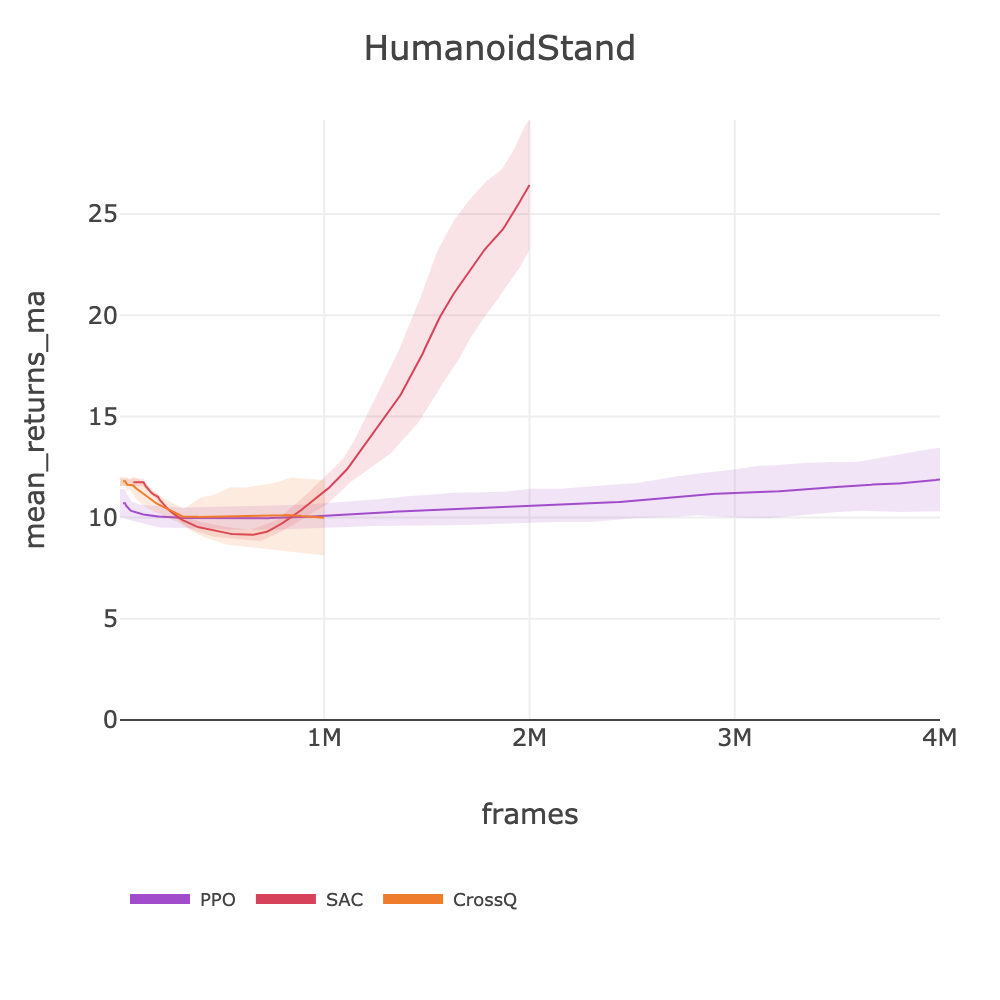
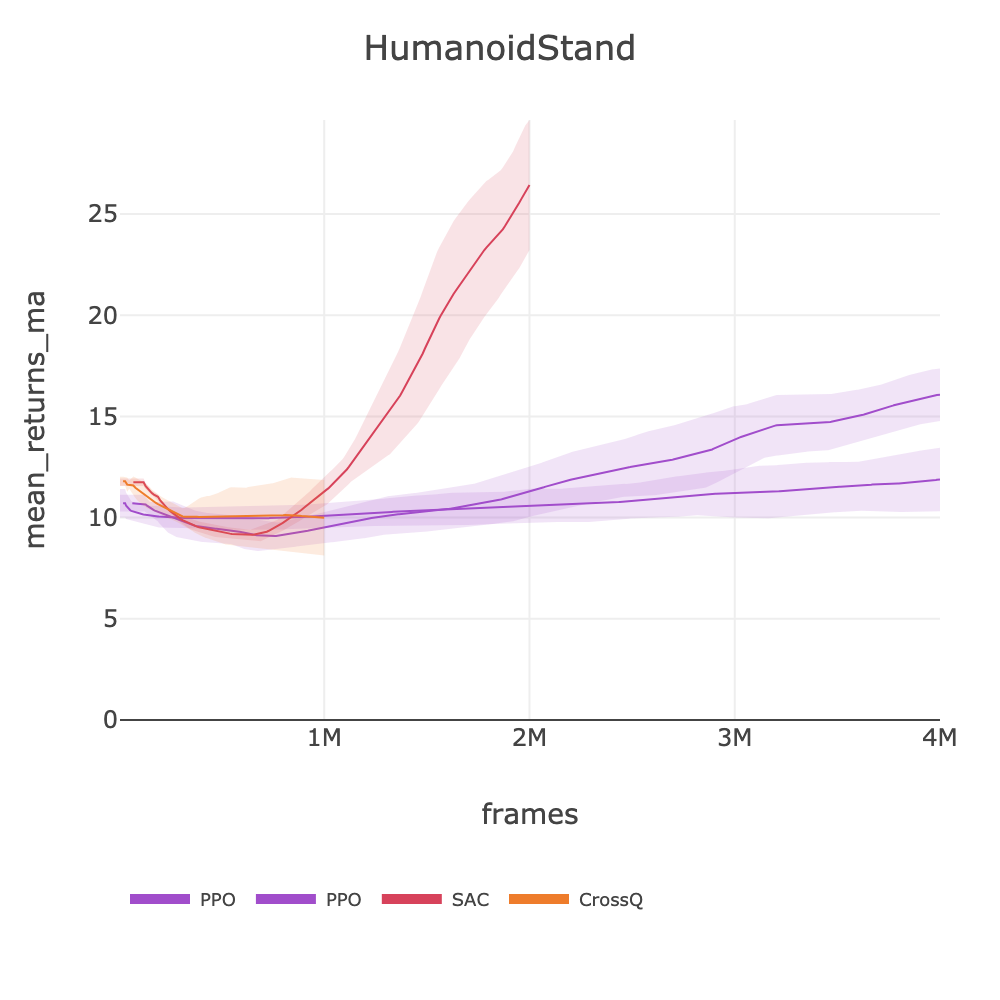
feat: Phase 5 HumanoidStand PPO loco (16.07) + BarkourJoystick PPO (0.00)

diff --git a/docs/BENCHMARKS.md b/docs/BENCHMARKS.md
@@ -831,6 +831,7 @@ source .env && slm-lab run-remote --gpu -s env=playground/CartpoleBalance -s max
 | playground/HumanoidRun | CrossQ | 1.96 | ~11 | ~189 (vhard/16e) | 1M | ~1.5h | [crossq_playground_arc_vhard_humanoidrun_2026_03_07_210456](https://huggingface.co/datasets/SLM-Lab/benchmark-dev/tree/main/data/crossq_playground_arc_vhard_humanoidrun_2026_03_07_210456) |
 | | SAC | 7.90 | | ~335 (fast/64e) | 4M | ~3.4h | [sac_playground_arc_fast_humanoidrun_2026_03_07_001036](https://huggingface.co/datasets/SLM-Lab/benchmark-dev/tree/main/data/sac_playground_arc_fast_humanoidrun_2026_03_07_001036) |
 | playground/HumanoidStand | PPO | 11.89 | ~514 | ~300 (16e) | 4M | ~3.7h | [ppo_playground_arc_humanoidstand_2026_03_07_133528](https://huggingface.co/datasets/SLM-Lab/benchmark-dev/tree/main/data/ppo_playground_arc_humanoidstand_2026_03_07_133528) |
+| | PPO loco | 16.07 | | ~290 (loco/64e) | 4M | ~3.8h | [ppo_playground_arc_loco_humanoidstand_2026_03_07_222019](https://huggingface.co/datasets/SLM-Lab/benchmark-dev/tree/main/data/ppo_playground_arc_loco_humanoidstand_2026_03_07_222019) |
 | | CrossQ | 9.99 | | ~170 (vhard/16e) | 1M | ~1.6h | [crossq_playground_arc_vhard_humanoidstand_2026_03_07_210445](https://huggingface.co/datasets/SLM-Lab/benchmark-dev/tree/main/data/crossq_playground_arc_vhard_humanoidstand_2026_03_07_210445) |
 | | SAC | 26.44 | | ~329 (fast/64e) | 2M | ~1.7h | [sac_playground_arc_fast_humanoidstand_2026_03_07_000958](https://huggingface.co/datasets/SLM-Lab/benchmark-dev/tree/main/data/sac_playground_arc_fast_humanoidstand_2026_03_07_000958) |
 | playground/HumanoidWalk | PPO | 5.50 | ~281 | ~300 (16e) | 4M | ~3.7h | [ppo_playground_arc_humanoidwalk_2026_03_07_133505](https://huggingface.co/datasets/SLM-Lab/benchmark-dev/tree/main/data/ppo_playground_arc_humanoidwalk_2026_03_07_133505) |
@@ -876,7 +877,7 @@ source .env && slm-lab run-remote --gpu -s env=playground/CartpoleBalance -s max
 | playground/ApolloJoystickFlatTerrain | PPO | - | N/A | - | - | - | - |
 | | SAC | - | | - | - | - | - |
 | | CrossQ | - | | - | - | - | - |
-| playground/BarkourJoystick | PPO | - | N/A | - | - | - | - |
+| playground/BarkourJoystick | PPO loco | 0.00 | N/A | ~525 (loco/64e) | 4M | ~2.1h | [ppo_playground_arc_loco_barkourjoystick_2026_03_07_230720](https://huggingface.co/datasets/SLM-Lab/benchmark-dev/tree/main/data/ppo_playground_arc_loco_barkourjoystick_2026_03_07_230720) |
 | | SAC | - | | - | - | - | - |
 | | CrossQ | - | | - | - | - | - |
 | playground/BerkeleyHumanoidJoystickFlatTerrain | PPO | - | N/A | - | - | - | - |
